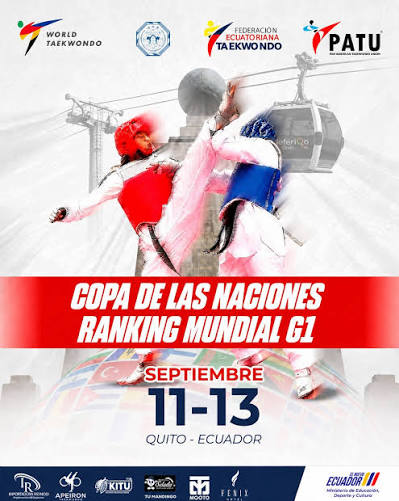
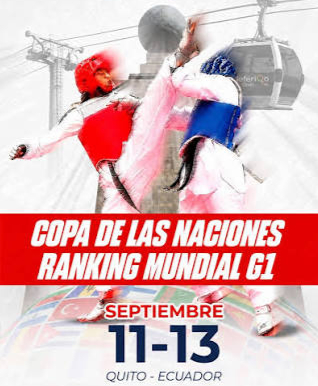
Errores de texto

diff --git a/src/components/Carousel.jsx b/src/components/Carousel.jsx
@@ -84,17 +84,33 @@ export default function Carousel({ images = defaultImages, intervalMs = 5000 }) 
       </div>
 
       {isFullscreen && (
-        <div className="carousel-fullscreen" role="dialog" aria-modal="true" aria-label="Vista de imagen en pantalla completa">
+        <div
+          className="carousel-fullscreen"
+          role="dialog"
+          aria-modal="true"
+          aria-label="Vista de imagen en pantalla completa"
+          onClick={() => setIsFullscreen(false)}
+        >
           <button
             type="button"
-            className="carousel-fullscreen-close"
+            className="carousel-fullscreen-minimize"
             onClick={() => setIsFullscreen(false)}
-            aria-label="Cerrar vista en pantalla completa"
+            aria-label="Minimizar vista en pantalla completa"
           >
-            ×
+            <svg viewBox="0 0 24 24" aria-hidden="true">
+              <circle cx="10.8" cy="10.8" r="6.8" />
+              <path d="m16 16 5 5M8 10.8h5.6" />
+            </svg>
           </button>
 
-          <div className="carousel-fullscreen-stage">
+          <div
+            className="carousel-fullscreen-stage"
+            onClick={(event) => {
+              if (event.target === event.currentTarget) {
+                setIsFullscreen(false);
+              }
+            }}
+          >
             <img src={images[currentIndex]} alt={`Foto del carrusel ${currentIndex + 1}`} />
             <div className="carousel-fullscreen-controls">
               <button type="button" onClick={handlePrev} aria-label="Foto anterior">

diff --git a/src/components/PaginasAsociadas.jsx b/src/components/PaginasAsociadas.jsx
@@ -9,6 +9,11 @@ export default function PaginasAsociadas() {
             url: "https://worldtkd.simplycompete.com/"
         },
         {
+            name: "PATU (Pan American Taekwondo Union)",
+            image: "./imagenes/paginasAsociadas/patu.png",
+            url: "https://www.patutkd.org/"
+        },
+        {
             name: "Federación Ecuatoriana de Taekwondo",
             image: "./imagenes/paginasAsociadas/fetkd.jpg",
             url: "https://www.ecuatorianatkd.com/"
@@ -17,11 +22,6 @@ export default function PaginasAsociadas() {
             name: "Asociación Deportiva de Pichincha",
             image: "./imagenes/paginasAsociadas/asotkd.png",
             url: "https://www.pichinchataekwondo.com/"
-        },
-        {
-            name: "PATU (Pan American Taekwondo Union)",
-            image: "./imagenes/paginasAsociadas/patu.png",
-            url: "https://www.patutkd.org/"
         }
     ];
 
@@ -30,7 +30,7 @@ export default function PaginasAsociadas() {
             <Header />
             <main style={{ paddingBottom: '4rem' }}>
                 <section className="asociadasTitles">
-                    <h1>Páginas Asociadas</h1>
+                    <h1>PÁGINAS ASOCIADAS</h1>
                     <span></span>
                 </section>
                 

diff --git a/src/components/estilos/carousel.css b/src/components/estilos/carousel.css
@@ -107,7 +107,7 @@
 .carousel-fullscreen {
   position: fixed;
   inset: 0;
-  z-index: 999;
+  z-index: 1100;
   display: grid;
   place-items: center;
   background: rgba(2, 6, 23, 0.8);
@@ -135,7 +135,7 @@
   background: #020617;
 }
 
-.carousel-fullscreen-close {
+.carousel-fullscreen-minimize {
   position: absolute;
   top: 1.25rem;
   right: 1.25rem;
@@ -145,13 +145,20 @@
   border-radius: 50%;
   background: rgba(15, 23, 42, 0.7);
   color: white;
-  font-size: 2rem;
-  line-height: 1;
   display: inline-flex;
   align-items: center;
   justify-content: center;
   cursor: pointer;
   z-index: 2;
+}
+
+.carousel-fullscreen-minimize svg {
+  width: 24px;
+  height: 24px;
+  fill: none;
+  stroke: currentColor;
+  stroke-width: 1.8;
+  stroke-linecap: round;
 }
 
 .carousel-fullscreen-controls {

diff --git a/src/components/Entrenadores.jsx b/src/components/Entrenadores.jsx
@@ -116,7 +116,7 @@ export default function Entrenadores() {
         
         {/* SECCIÓN DE ENTRENADORES */}
         <section className="trainerTitles">
-          <h1>Profesores y Entrenadores Debak</h1>
+          <h1>ENTRENADORES DE DEBAK</h1>
           <span></span>
           <p>Conoce más acerca de nuestro personal capacitado.</p>
         </section>
@@ -138,7 +138,7 @@ export default function Entrenadores() {
 
         {/* SECCIÓN DEL PERSONAL INSTITUCIONAL */}
         <section className="trainerTitles" style={{ marginTop: '3rem' }}>
-          <h1>Personal Institucional Debak</h1>
+          <h1>PERSONAL INSTITUCIONAL DEBAK</h1>
           <span></span>
           <p>Conoce más acerca de nuestro equipo administrativo.</p>
         </section>

diff --git a/src/components/Contactanos.jsx b/src/components/Contactanos.jsx
@@ -32,7 +32,7 @@ export default function Contactanos() {
       <Header />
       <main>
         <section className="contactanosTitles">
-          <h1>Redes Sociales</h1>
+          <h1>REDES SOCIALES</h1>
           <span></span>
           <p>Ve nuestro contenido y escríbenos para más información.</p>
           <div className="contactanosSocial">
@@ -63,7 +63,7 @@ export default function Contactanos() {
           </div>
         </section>
         <section className="contactanosTitles">
-          <h1>Sedes Debak</h1>
+          <h1>SEDES DEBAK</h1>
           <span></span>
           <p>Nos ubicamos en la capital del Ecuador: Quito; distribuidos en Carcelén y Tumbaco.</p>
         </section>

diff --git a/src/components/examenes.jsx b/src/components/examenes.jsx
@@ -28,9 +28,9 @@ export default function Examenes() {
             <Header />
             <main>
                 <section className="examTitles">
-                    <h1>Exámenes</h1>
+                    <h1>INFORMACIÓN PARA EXÁMENES</h1>
                     <span></span>
-                    <p>Información sobre los exámenes de ascenso. Haz clic en un cinturón para descargar el vocabulario.</p>
+                    <p>Vocabulario y contenido de preparación previo a los exámenes de ascenso.</p>
                   
                 <section className='examenes'> 
                     <h2 style={{ fontSize: '32px' }}>Vocabulario</h2>

diff --git a/src/components/Eventos.jsx b/src/components/Eventos.jsx
@@ -211,7 +211,7 @@ const dataEventos = {
       },{
         title: 'Gabriel Ruíz al Aire',
         description: 'Gabriel Ruíz, uno de nuestros deportistas, pudo dar a conocer sus motivaciones en el deporte y compartió hermosos mensajes desde su experiencia y trayectoria.',
-        image: './imagenes/eventos/entrevistaGabriel.jpeg',  
+        image: './imagenes/eventos/entrevistaGabriel.jpg',  
         date: '28 de Mayo, 2026',
         location: 'Quito',
         tag: 'Entrevista',

diff --git a/src/components/Implementos.jsx b/src/components/Implementos.jsx
@@ -28,7 +28,7 @@ export default function Implementos() {
             <Header />
             <main style={{ paddingBottom: '4rem' }}>
                 <section className="catalogoTitles">
-                    <h1>Implementos</h1>
+                    <h1>IMPLEMENTOS DE COMBATE</h1>
                     <span></span>
                 </section>
                 <section className="catalogo">

diff --git a/src/components/InstitucionEstructura.jsx b/src/components/InstitucionEstructura.jsx
@@ -9,7 +9,7 @@ export default function InstitucionEstructura() {
       <Header />
       <main>
         <section className="institucionTitles">
-          <h1>Estructura Organizacional</h1>
+          <h1>ESTRUCTURA ORGANIZACIONAL</h1>
           <span></span>
           <p>Visualiza cómo está organizada nuestra academia y quiénes lideran cada área.</p>
         </section>

diff --git a/src/components/Inicio.jsx b/src/components/Inicio.jsx
@@ -16,7 +16,7 @@ export default function Inicio() {
         <Carousel />
 
         <section className="intro">
-          <h2>¿Quiénes somos?</h2>
+          <h2>¿Quiénes somos?</h2> <br/>
           <p>El club Debak TKD es una familia de campeones dejando en alto al Ecuador. <br/> Formamos grandes seres humanos para la vida.</p>
         </section>
       </main>

diff --git a/src/components/Catalogo.jsx b/src/components/Catalogo.jsx
@@ -16,7 +16,7 @@ export default function Catalogo() {
             <Header />
             <main>
                 <section className="catalogoTitles">
-                    <h1>Catálogo de Productos</h1>
+                    <h1>CATÁLOGO DE PRODUCTOS</h1>
                     <span></span>
                 </section>
                 <section className="products">

diff --git a/src/components/Deportistas.jsx b/src/components/Deportistas.jsx
@@ -164,7 +164,7 @@ export default function Deportistas() {
       <Header />
       <main>
         <section className="deportistTitles">
-          <h1>Deportistas Destacados de Debak</h1>
+          <h1>DEPORTISTAS DESTACADOS DE DEBAK</h1>
           <span></span>
           <p>Conoce más acerca de nuestros deportistas.</p>
         </section>
